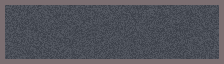
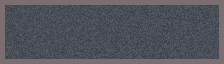
Shopfront glass: faint sky reflection over the real panes through a mask, display items still show
Claude-Session: https://claude.ai/code/session_013NozTEqze7jz3LdAKrPRz7

diff --git a/kotlin-street/shared/src/main/kotlin/scene/BuildingPainter.kt b/kotlin-street/shared/src/main/kotlin/scene/BuildingPainter.kt
@@ -2460,6 +2460,17 @@ internal class BuildingPainter {
             mirrorSky(x, y, ww, hh, min(1f, FacadeLook.reflection(if (StageTuning.interiors) lampOn else 0f, sky.dark) * mirror * (if (StageTuning.interiors) 1f else 1.35f)) * (1f - .5f * (if (StageTuning.interiors) lampOn else 0f)), pane, 1f - .7f * (if (StageTuning.interiors) lampOn else 0f))
             if (StageTuning.interiors && lampOn > .02f && sky.dark > .2f) roomOnReveals(x, y, ww, hh, .3f * lampOn * sky.dark)
         }
+        // the shopfront glass: the display shows through, with the sky and the sun's glint faintly over the real panes only
+        val gm = sb.glass
+        if (gm != null && sb.shop.isNotEmpty()) {
+            val band = sb.shop[0]
+            drawIntoCanvas { it.saveLayer(androidx.compose.ui.geometry.Rect(-half, -hf, half, 0f), Paint()) }
+            val pane = wseed * 17 + 500
+            val mirror = fresnel * (1f + PANE_FRESNEL * GlassMap.tilt(pane))
+            mirrorSky(-half + band[0] * k, -hf + band[1] * k, band[2] * k, band[3] * k, min(1f, FacadeLook.reflection(0f, sky.dark) * mirror * .75f), pane, 1f)
+            picture2(gm, -half, -hf, B.W, hf, FilterQuality.None, blend = BlendMode.DstIn)
+            drawIntoCanvas { it.restore() }
+        }
         // lit at dusk: the glass glows
         val on = (sky.dark * Dusk.lightsOn(art.stack.id.hashCode(), hour, Dusk.SHOP)).coerceIn(0f, 1f)
         if (on > .01f) picture2(sb.emis, -half, -hf, B.W, hf, FilterQuality.None, alpha = on * .55f)

diff --git a/kotlin-street/desktop/src/main/kotlin/Preview.kt b/kotlin-street/desktop/src/main/kotlin/Preview.kt
@@ -74,7 +74,7 @@ fun streetOfShops(): List<HabitStack> {
         if (SpriteArt.buildings[id] == null) img("${n}_front")?.let { front ->
             val wj = File(dir, "buildings/windows.json").takeIf { it.exists() }?.let { org.json.JSONObject(it.readText()) }
             val ws = wj?.optJSONArray(n)?.let { a -> (0 until a.length()).map { k -> val r = a.getJSONArray(k); FloatArray(4) { r.getDouble(it).toFloat() } } }.orEmpty()
-            SpriteArt.buildings[id] = SpriteBuilding(front, img("${n}_side")!!, img("${n}_emis")!!, img("${n}_roof"), img("${n}_sign"), img("${n}_prop"), mids, ws)
+            SpriteArt.buildings[id] = SpriteBuilding(front, img("${n}_side")!!, img("${n}_emis")!!, img("${n}_roof"), img("${n}_sign"), img("${n}_prop"), mids, ws, wj?.optJSONArray(n + "_shop")?.let { a -> (0 until a.length()).map { k -> val r = a.getJSONArray(k); FloatArray(4) { r.getDouble(it).toFloat() } } }.orEmpty(), img("${n}_glass"))
         }
         building(id, o.getString("name"), "", HabitMaterial.CLAY, mids)
     }

diff --git a/kotlin-street/app/src/main/kotlin/GameActivity.kt b/kotlin-street/app/src/main/kotlin/GameActivity.kt
@@ -110,7 +110,7 @@ private fun loadStreet(ctx: android.content.Context): StreetData = try {
         // a building whose art is missing keeps the engine's painted version; the rest of the street is unaffected
         val front = img("${n}_front"); val side = img("${n}_side"); val emis = img("${n}_emis")
         if (front != null && side != null && emis != null)
-            SpriteArt.buildings[id] = SpriteBuilding(front, side, emis, img("${n}_roof"), img("${n}_sign"), img("${n}_prop"), mids, windows[n].orEmpty())
+            SpriteArt.buildings[id] = SpriteBuilding(front, side, emis, img("${n}_roof"), img("${n}_sign"), img("${n}_prop"), mids, windows[n].orEmpty(), windows[n + "_shop"].orEmpty(), img("${n}_glass"))
         shop(id, o.getString("name"), "", HabitMaterial.CLAY, mids)
     }
     StreetData("${j.getString("town")} · ${j.getString("type")} · ${j.getInt("year")}", shops, (0 until arr.length()).map { arr.getJSONObject(it).optString("owner") })

diff --git a/kotlin-street/shared/src/main/kotlin/shim/Tuning.kt b/kotlin-street/shared/src/main/kotlin/shim/Tuning.kt
@@ -43,6 +43,10 @@ class SpriteBuilding(
     val middles: Int,
     /** The real windows (x, y, w, h in front-sprite pixels): their glass is cut out of [front]; the engine draws the rooms behind. */
     val windows: List<FloatArray> = emptyList(),
+    /** The shopfront glass (x, y, w, h): not cut out (the display shows through); the engine lays a faint reflection over it. */
+    val shop: List<FloatArray> = emptyList(),
+    /** A mask (white where the shopfront has real glass) to lay that reflection through. */
+    val glass: ImageBitmap? = null,
 )
 
 /** All of the game's own art that replaces the habit scene's procedural art, installed by the platform. */

diff --git a/kotlin-street/tools/make_buildings.py b/kotlin-street/tools/make_buildings.py
@@ -118,6 +118,20 @@ def build(shop, out):
     boxes, cut = find_windows(front, H - body_h)
     fa = np.array(front); fa[cut] = (0, 0, 0, 0); front = Image.fromarray(fa)
     WINDOWS[shop['sprite']] = boxes
+    # the shopfront glass (the display shows through it): nothing is cut; the engine lays a faint reflection over this mask
+    # (big panes only, so signs, lettering and walls are left alone, and the display items stay clean)
+    sg = glass(fa); sg[:H - body_h, :] = False
+    keep = np.zeros_like(sg); soft = np.zeros_like(sg)
+    for (x0, y0, x1, y1) in components(dilate(sg, 1)):
+        sub = sg[y0:y1 + 1, x0:x1 + 1]; n = int(sub.sum())
+        ys, xs = np.where(sub)
+        if n < 40: continue
+        bw, bh = int(xs.max() - xs.min() + 1), int(ys.max() - ys.min() + 1)
+        if n >= 150 and n / float(bw * bh) >= .6: keep[y0:y1 + 1, x0:x1 + 1] |= sub                    # a clean pane: its glass
+        elif 30 <= bw <= 170 and bh >= 24: soft[y0 + ys.min():y0 + ys.max() + 1, x0 + xs.min():x0 + xs.max() + 1] = True   # a display window: the whole pane, fainter, items showing through
+    gimg = np.zeros((H, 224, 4), np.uint8); gimg[soft & ~keep] = (255, 255, 255, 105); gimg[keep] = (255, 255, 255, 255)
+    Image.fromarray(gimg).save(f'{out}/{shop["sprite"]}_glass.png')
+    WINDOWS[shop['sprite'] + '_shop'] = [(0, int(H - body_h), 224, int(body_h))]
     em = np.zeros((H, 224, 4), np.uint8); gm = glass(fa); em[gm] = (255, 205, 120, 235)
     n = shop['sprite']
     front.save(f'{out}/{n}_front.png'); side.save(f'{out}/{n}_side.png'); Image.fromarray(em).save(f'{out}/{n}_emis.png')

diff --git a/kotlin-street/STATUS.md b/kotlin-street/STATUS.md
@@ -6,8 +6,8 @@
 - Buildings are the exact ones our TypeScript game draws for each shop (`tools/export-street.ts` -> `street.json`),
   composed into boxes by `tools/make_buildings.py`: front, matching side wall, flat roof, window-glow mask, rooftop sign.
   Signs sit over the front face as one piece (only the part above the roofline goes on the roof).
-- Upper-floor windows are real openings showing plain reflective glass (engine sky reflection + sun glint); the habit scene's furnished rooms/people are off (`StageTuning.interiors`) until our own 2D interiors go in. Shop windows and arched/ornate windows are left as sprites.
-  reflections and sun glints over. Shop windows and arched/ornate windows are left as sprites.
+- Upper-floor windows are real openings showing plain reflective glass (engine sky reflection + sun glint); the habit scene's furnished rooms/people are off (`StageTuning.interiors`) until our own 2D interiors go in. Shopfront glass keeps its painted display and gets a faint reflection through a mask (`bN_glass.png`, display panes at ~40% strength). Arched/ornate upper windows are left as sprites.
+  reflections and sun glints over. Shopfront glass keeps its painted display and gets a faint reflection through a mask (`bN_glass.png`, display panes at ~40% strength). Arched/ornate upper windows are left as sprites.
 - Walking: hold ◀ ▶; ▲ ▼ step in/out across the pavement (back/front views); camera follows. Time slider; season
   (spring/summer/autumn/winter) and weather (clear/overcast/rain/mist) buttons; trees are tinted by season.
 - `gradle :desktop:preview -Dmode=pano|weather|rooms|walk` renders PNGs without a phone (see desktop/build/preview).
